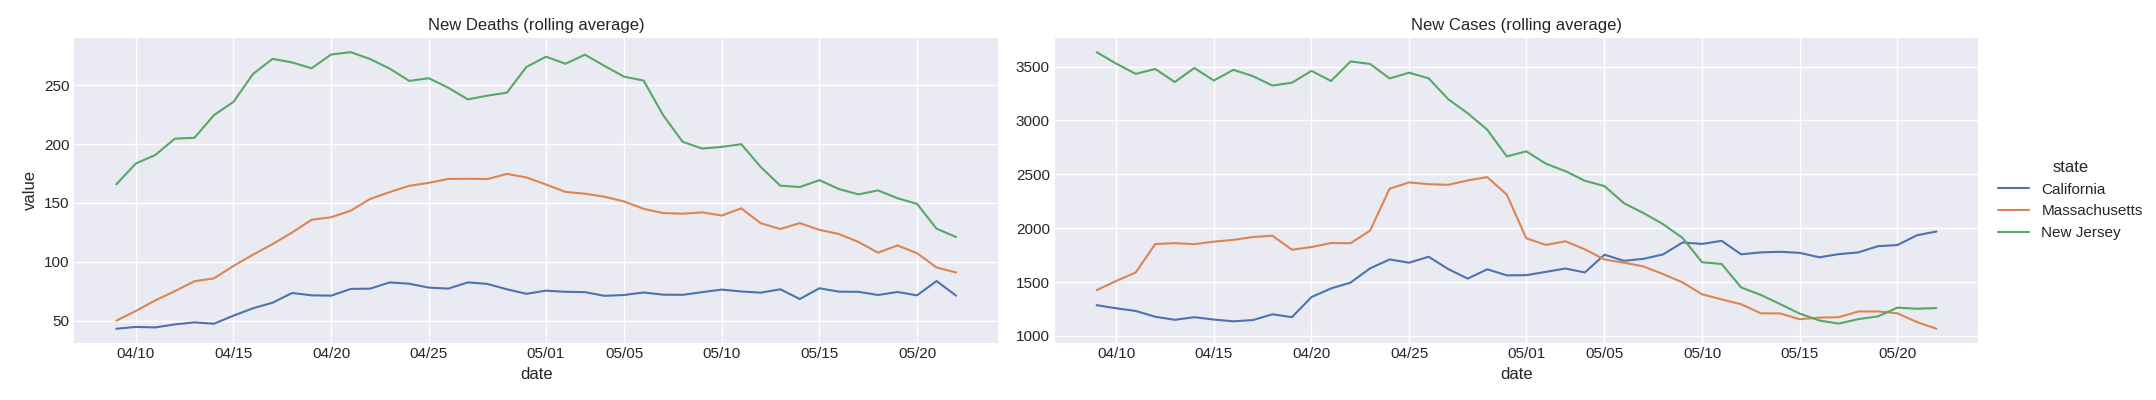
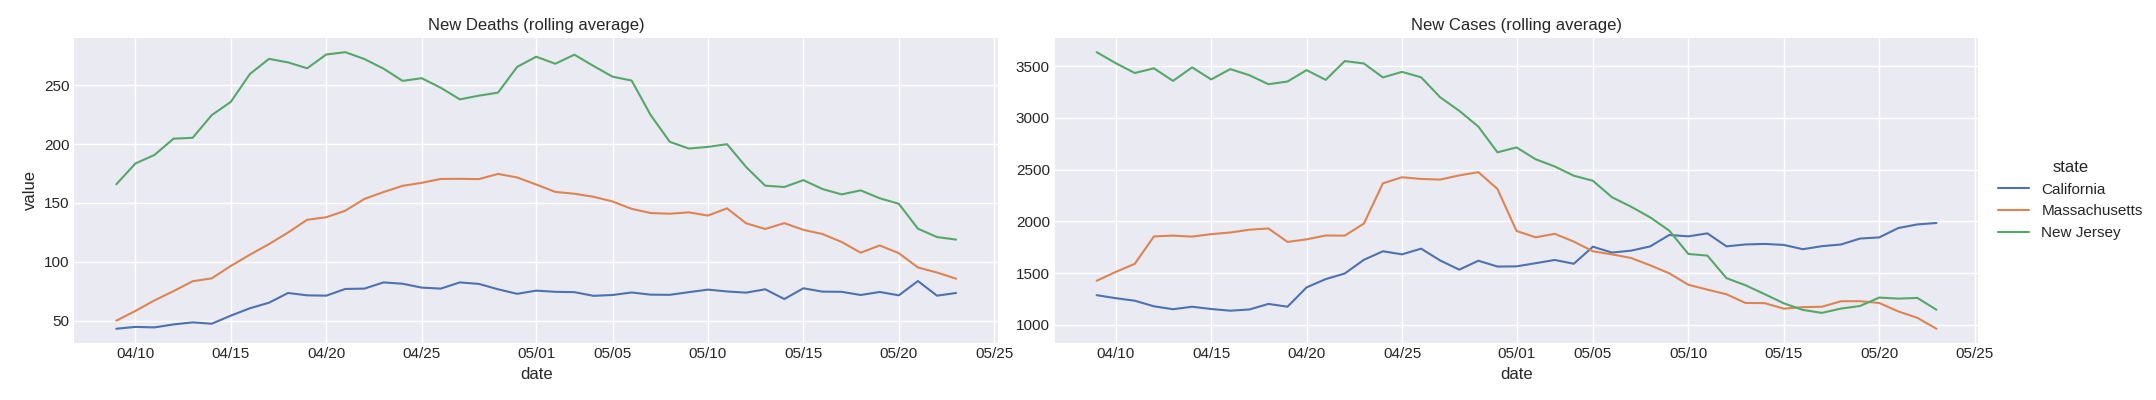
Apply automatic changes

diff --git a/index.html b/index.html
@@ -11,7 +11,7 @@
     integrity="sha384-Gn5384xqQ1aoWXA+058RXPxPg6fy4IWvTNh0E263XmFcJlSAwiGgFAW/dAiS6JXm" crossorigin="anonymous">
 </head>
 <body>
-  <div class="container-fluid">
+  <div class="container-md">
     <div class="row">
       <div class="col">
         <h2> My Covid Panel</h2>
@@ -22,7 +22,7 @@
           can't really rely on what you see that is more recent than 3 weeks. 
         </p>
         <p>
-          These graphs and the programming were done by me, Pito Salas. Feel free to ask me for a copy! File generated at 2020-05-24 15:07:13 +0000.
+          These graphs and the programming were done by me, Pito Salas. Feel free to ask me for a copy! File generated at 2020-05-24 15:59:10 +0000.
         </p>
       </div>
     </div>
@@ -47,6 +47,14 @@
         <img class="img-fluid" src="out3.png">
       </div>
     </div>
+
+    
+    <div class="row">
+      <div class="col-10 offset-1">
+        <img class="img-fluid" src="out4.png">
+      </div>
+    </div>
+
 
   <script src="https://code.jquery.com/jquery-3.2.1.slim.min.js"
     integrity="sha384-KJ3o2DKtIkvYIK3UENzmM7KCkRr/rE9/Qpg6aAZGJwFDMVNA/GpGFF93hXpG5KkN"
